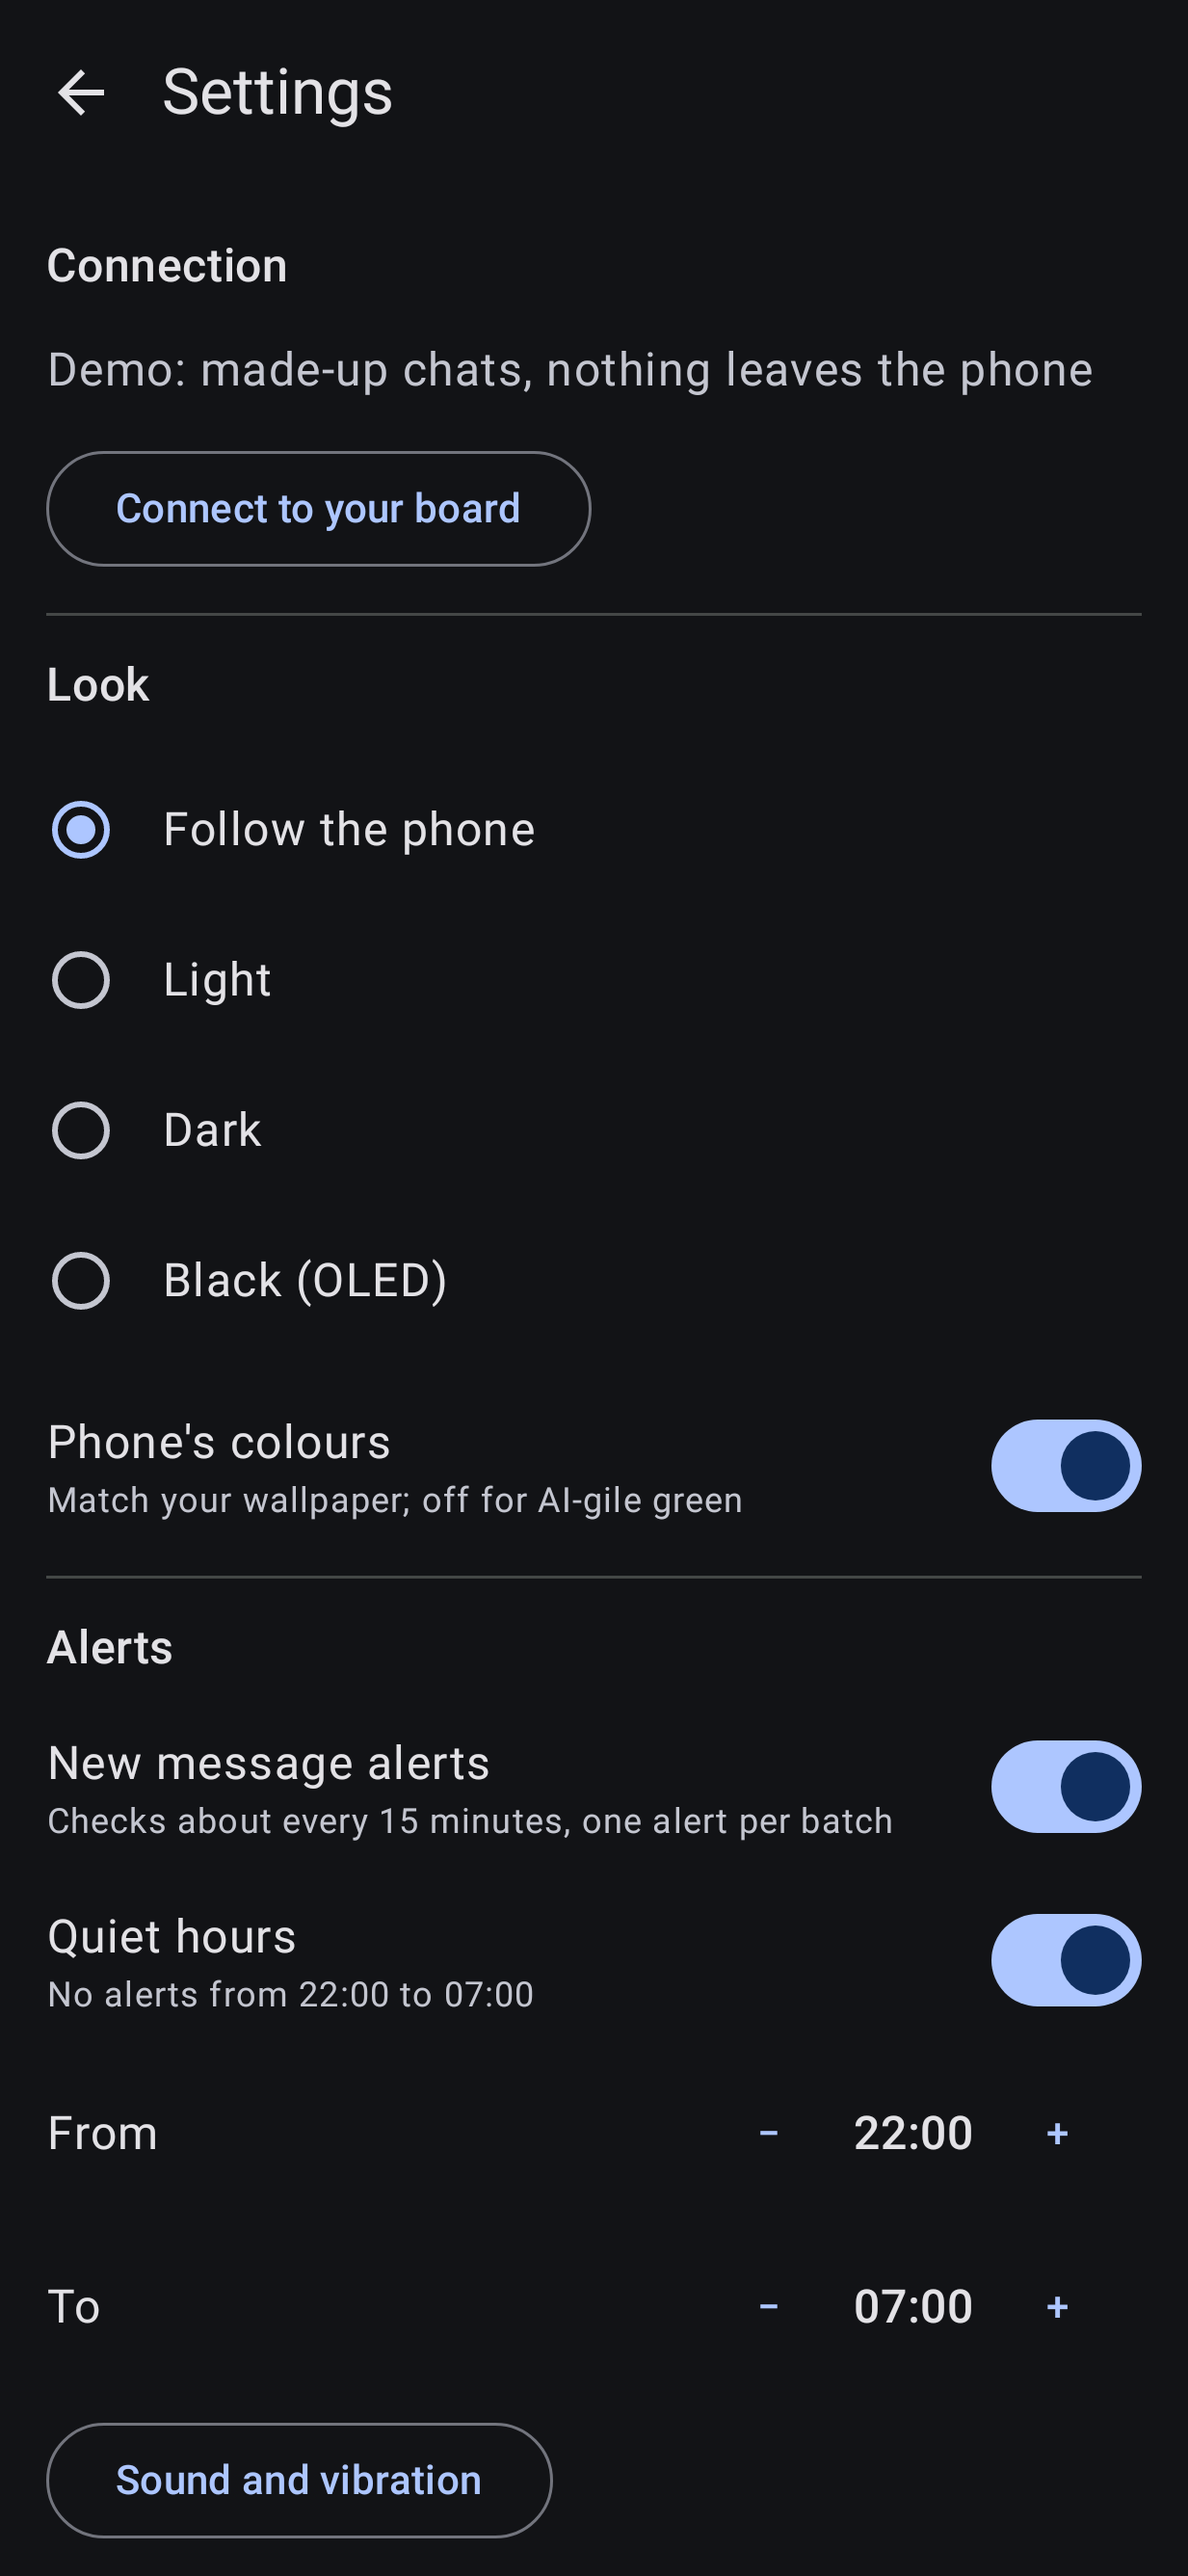
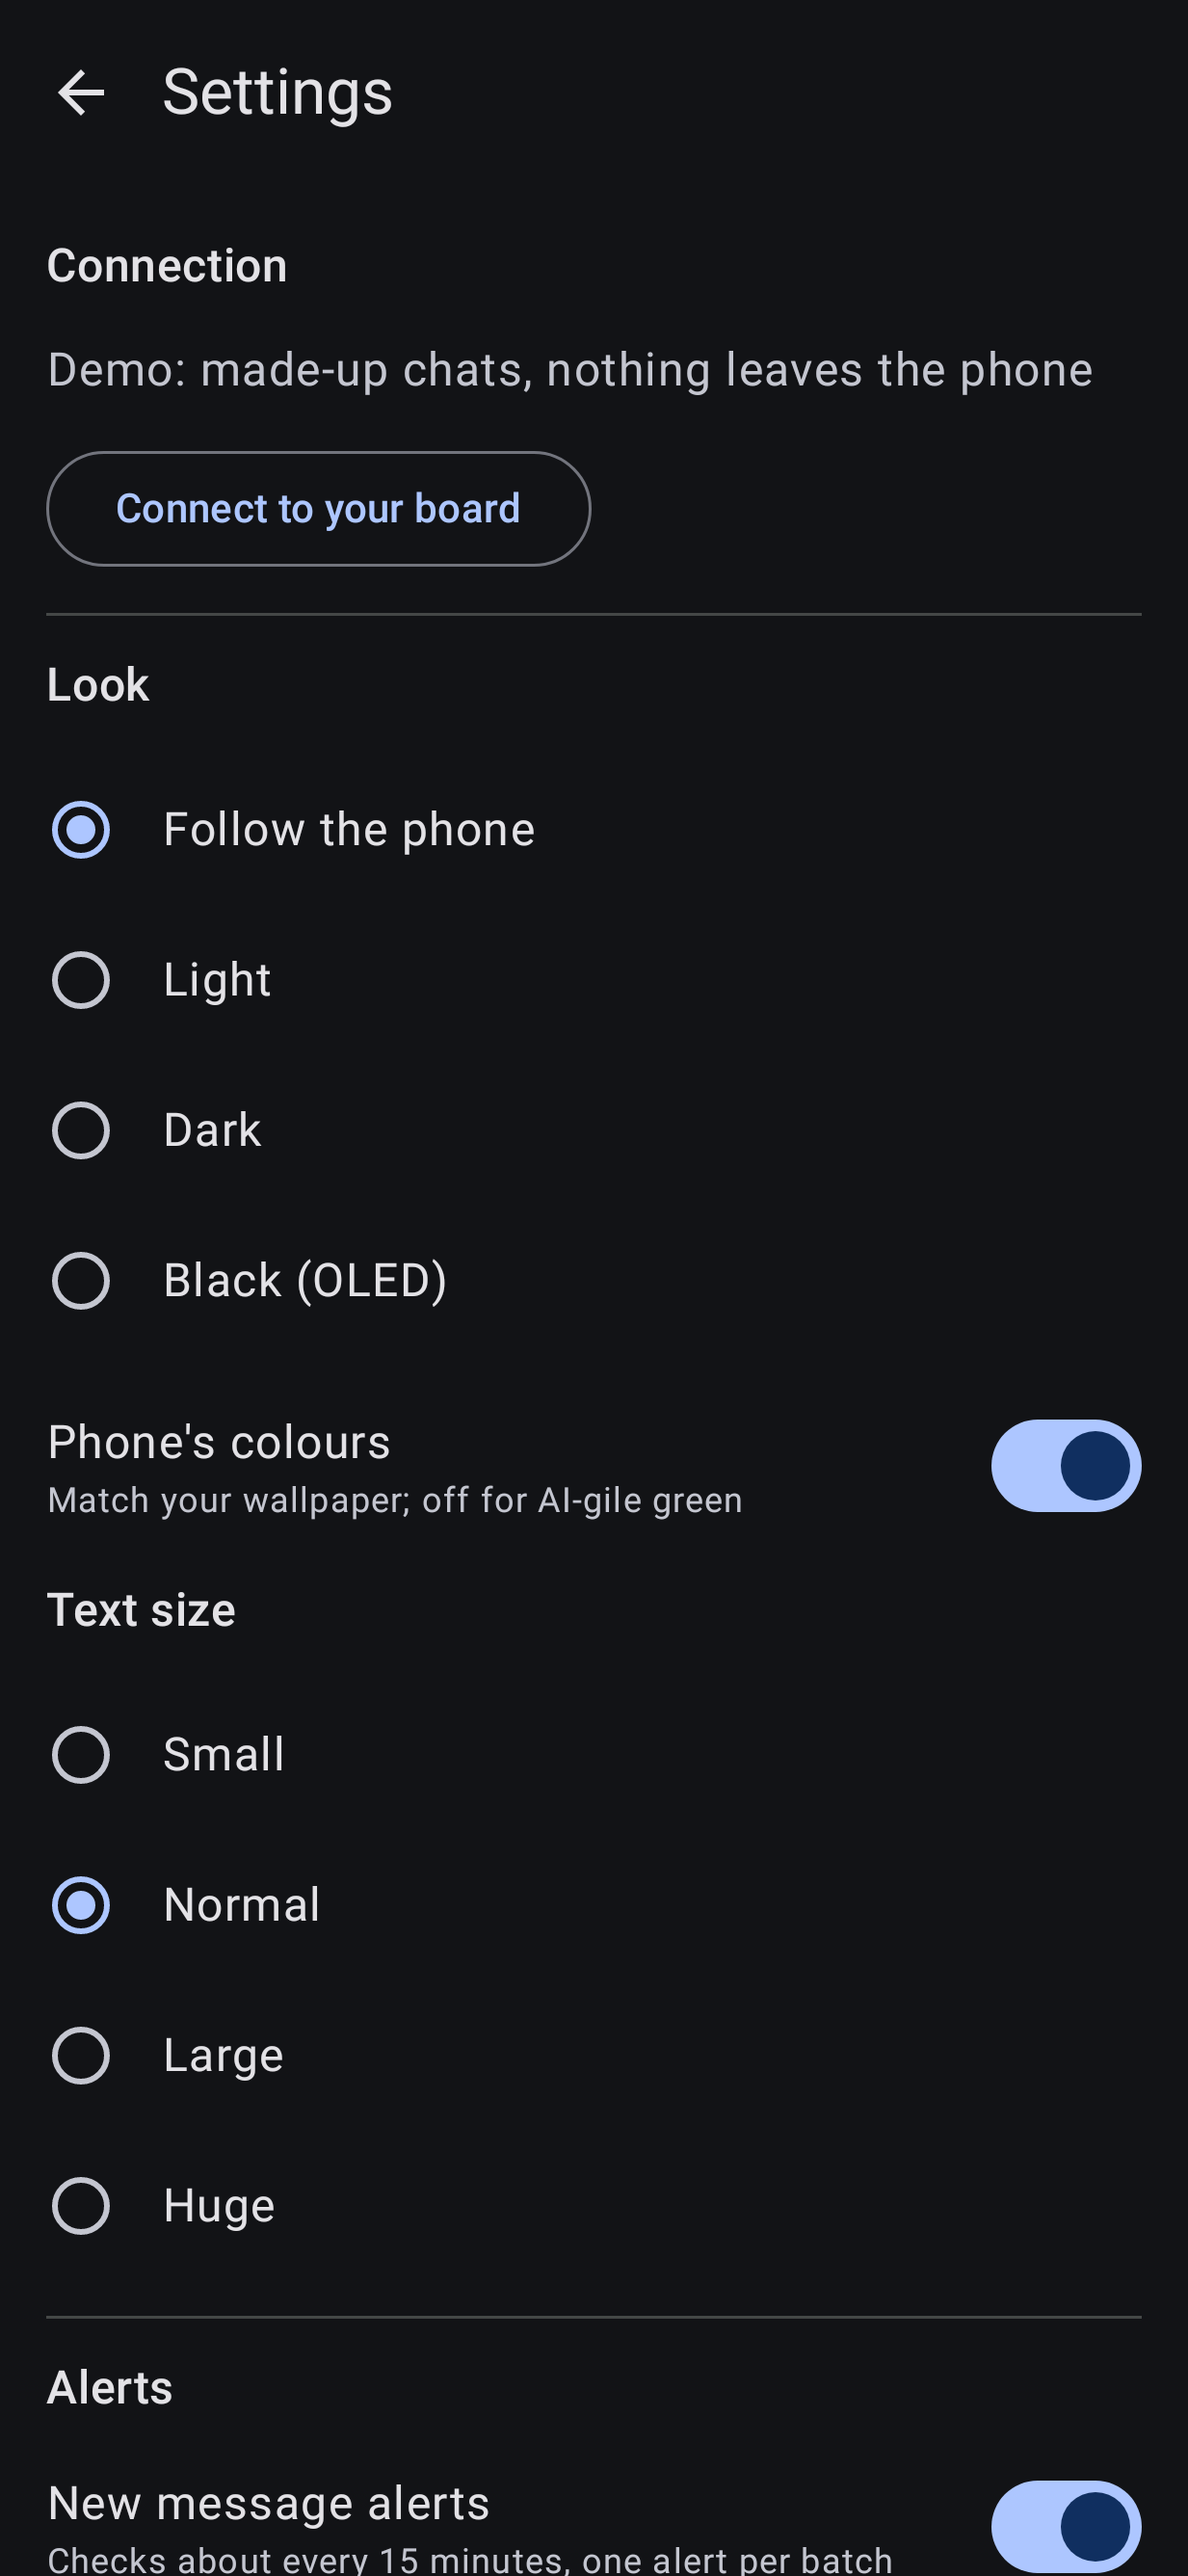
Text size setting: small, normal, large, huge (AII-66)

diff --git a/app/src/main/java/com/smizflark/aigile/messenger/ui/Theme.kt b/app/src/main/java/com/smizflark/aigile/messenger/ui/Theme.kt
@@ -15,6 +15,7 @@ import androidx.compose.material3.MaterialTheme
 import androidx.compose.material3.RadioButton
 import androidx.compose.material3.Switch
 import androidx.compose.material3.Text
+import androidx.compose.material3.Typography
 import androidx.compose.material3.darkColorScheme
 import androidx.compose.material3.dynamicDarkColorScheme
 import androidx.compose.material3.dynamicLightColorScheme
@@ -32,6 +33,8 @@ import androidx.compose.ui.platform.LocalContext
 import androidx.compose.ui.platform.LocalView
 import androidx.compose.ui.platform.testTag
 import androidx.compose.ui.semantics.Role
+import androidx.compose.ui.text.TextStyle
+import androidx.compose.ui.unit.isSpecified
 import androidx.compose.ui.unit.dp
 import androidx.core.view.WindowCompat
 import com.smizflark.aigile.messenger.data.Store
@@ -66,11 +69,38 @@ enum class Look(val id: String, val label: String) {
 object Appearance {
     var look by mutableStateOf<Look?>(null)
     var phoneColours by mutableStateOf(true)
+    var textSize by mutableStateOf(TextSize.Normal)
 
     fun load(store: Store) {
-        if (look == null) { look = Look.of(store.look); phoneColours = store.phoneColours }
+        if (look == null) { look = Look.of(store.look); phoneColours = store.phoneColours; textSize = TextSize.of(store.textSize) }
     }
 }
+
+/* ---------- text size ---------- */
+
+/** The text sizes in Settings (AII-66); [id] is what the Store keeps. */
+enum class TextSize(val id: String, val label: String, val scale: Float) {
+    Small("small", "Small", 0.85f),
+    Normal("normal", "Normal", 1f),
+    Large("large", "Large", 1.15f),
+    Huge("huge", "Huge", 1.3f);
+
+    companion object { fun of(id: String) = entries.firstOrNull { it.id == id } ?: Normal }
+}
+
+private fun TextStyle.times(k: Float) = copy(
+    fontSize = if (fontSize.isSpecified) fontSize * k else fontSize,
+    lineHeight = if (lineHeight.isSpecified) lineHeight * k else lineHeight,
+)
+
+/** Every text style grown or shrunk by [k], so chats, messages and the rest of the app follow the setting. */
+fun scaled(t: Typography, k: Float): Typography = if (k == 1f) t else t.copy(
+    displayLarge = t.displayLarge.times(k), displayMedium = t.displayMedium.times(k), displaySmall = t.displaySmall.times(k),
+    headlineLarge = t.headlineLarge.times(k), headlineMedium = t.headlineMedium.times(k), headlineSmall = t.headlineSmall.times(k),
+    titleLarge = t.titleLarge.times(k), titleMedium = t.titleMedium.times(k), titleSmall = t.titleSmall.times(k),
+    bodyLarge = t.bodyLarge.times(k), bodyMedium = t.bodyMedium.times(k), bodySmall = t.bodySmall.times(k),
+    labelLarge = t.labelLarge.times(k), labelMedium = t.labelMedium.times(k), labelSmall = t.labelSmall.times(k),
+)
 
 fun isDark(look: Look, systemDark: Boolean) = when (look) {
     Look.System -> systemDark
@@ -115,7 +145,7 @@ fun MessengerTheme(store: Store? = null, content: @Composable () -> Unit) {
         }
         window.decorView.setBackgroundColor(scheme.background.toArgb())
     }
-    MaterialTheme(colorScheme = scheme, content = content)
+    MaterialTheme(colorScheme = scheme, typography = scaled(Typography(), Appearance.textSize.scale), content = content)
 }
 
 /* ---------- Settings: Look ---------- */
@@ -147,5 +177,21 @@ fun AppearanceSettings(store: Store) {
         }
         Switch(checked = Appearance.phoneColours, onCheckedChange = { Appearance.phoneColours = it; store.phoneColours = it },
             modifier = Modifier.testTag("phoneColours"))
+    }
+    Text("Text size", style = MaterialTheme.typography.titleMedium)
+    Column(Modifier.selectableGroup()) {
+        TextSize.entries.forEach { t ->
+            Row(
+                Modifier.fillMaxWidth().heightIn(min = 52.dp)
+                    .selectable(selected = Appearance.textSize == t, role = Role.RadioButton) {
+                        Appearance.textSize = t; store.textSize = t.id
+                    }
+                    .testTag("textSize:${t.id}"),
+                verticalAlignment = Alignment.CenterVertically,
+            ) {
+                RadioButton(selected = Appearance.textSize == t, onClick = null)
+                Text(t.label, Modifier.padding(start = 16.dp), style = MaterialTheme.typography.bodyLarge)
+            }
+        }
     }
 }

diff --git a/app/src/test/java/com/smizflark/aigile/messenger/TextSizeTest.kt b/app/src/test/java/com/smizflark/aigile/messenger/TextSizeTest.kt
@@ -1,0 +1,35 @@
+package com.smizflark.aigile.messenger
+
+import androidx.compose.material3.Typography
+import androidx.compose.ui.unit.sp
+import com.smizflark.aigile.messenger.ui.TextSize
+import com.smizflark.aigile.messenger.ui.scaled
+import org.junit.Assert.assertEquals
+import org.junit.Assert.assertTrue
+import org.junit.Test
+
+/** Text size setting (AII-66): four sizes, stored by id, scaling every text style. */
+class TextSizeTest {
+
+    @Test fun unknownFallsBackToNormal() = assertEquals(TextSize.Normal, TextSize.of("nonsense"))
+
+    @Test fun storedIdsRoundTrip() = TextSize.entries.forEach { assertEquals(it, TextSize.of(it.id)) }
+
+    @Test fun sizesGrowInOrder() {
+        val s = TextSize.entries.map { it.scale }
+        assertEquals(s.sorted(), s)
+        assertEquals(4, s.distinct().size)
+    }
+
+    @Test fun normalLeavesTextAlone() = assertEquals(Typography(), scaled(Typography(), TextSize.Normal.scale))
+
+    @Test fun hugeGrowsMessagesAndLineHeight() {
+        val t = Typography()
+        val huge = scaled(t, TextSize.Huge.scale)
+        assertEquals((t.bodyLarge.fontSize.value * 1.3f), huge.bodyLarge.fontSize.value, 0.01f)
+        assertTrue(huge.bodyLarge.lineHeight.value > t.bodyLarge.lineHeight.value)
+        assertTrue(huge.titleMedium.fontSize > t.titleMedium.fontSize)
+    }
+
+    @Test fun smallShrinks() = assertTrue(scaled(Typography(), TextSize.Small.scale).bodyMedium.fontSize < 14.sp)
+}

diff --git a/app/src/test/java/com/smizflark/aigile/messenger/screens/ScreenshotTest.kt b/app/src/test/java/com/smizflark/aigile/messenger/screens/ScreenshotTest.kt
@@ -11,6 +11,8 @@ import com.smizflark.aigile.messenger.ui.ChatScreen
 import com.smizflark.aigile.messenger.ui.ChatsScreen
 import com.smizflark.aigile.messenger.ui.ConnectScreen
 import com.smizflark.aigile.messenger.ui.MessengerTheme
+import com.smizflark.aigile.messenger.ui.Appearance
+import com.smizflark.aigile.messenger.ui.TextSize
 import com.smizflark.aigile.messenger.ui.NewMessageScreen
 import com.smizflark.aigile.messenger.ui.SettingsScreen
 import kotlinx.coroutines.runBlocking
@@ -55,6 +57,10 @@ class ScreenshotTest {
     @Test fun chatsDark() = shot("chats", true) { ChatsScreen(repo, {}, {}, {}) }
     @Test fun chatLight() { prime(lead()); shot("chat", false) { ChatScreen(repo, lead(), onBack = {}) } }
     @Test fun chatDark() { prime(lead()); shot("chat", true) { ChatScreen(repo, lead(), onBack = {}) } }
+    @Test fun chatHuge() {
+        prime(lead()); Appearance.textSize = TextSize.Huge
+        try { shot("chat_huge", false) { ChatScreen(repo, lead(), onBack = {}) } } finally { Appearance.textSize = TextSize.Normal }
+    }
     @Test fun newLight() = shot("new_message", false) { NewMessageScreen(repo, onBack = {}, onSent = {}) }
     @Test fun newDark() = shot("new_message", true) { NewMessageScreen(repo, onBack = {}, onSent = {}) }
     @Test fun settingsLight() = shot("settings", false) { SettingsScreen(repo, {}, {}) }

diff --git a/app/src/main/java/com/smizflark/aigile/messenger/data/Store.kt b/app/src/main/java/com/smizflark/aigile/messenger/data/Store.kt
@@ -99,6 +99,12 @@ class Store(context: Context) {
     var phoneColours: Boolean
         get() = prefs.getBoolean("phoneColours", true)
         set(v) = prefs.edit().putBoolean("phoneColours", v).apply()
+
+    /** Text size (AII-66): small, normal, large or huge. */
+    var textSize: String
+        get() = prefs.getString("textSize", "normal") ?: "normal"
+        set(v) = prefs.edit().putString("textSize", v).apply()
+
     /** Chats pinned to the top of the list (AII-47), by chat key. */
     var pinned: Set<String>
         get() = prefs.getStringSet("pinned", emptySet())?.toSet() ?: emptySet()
